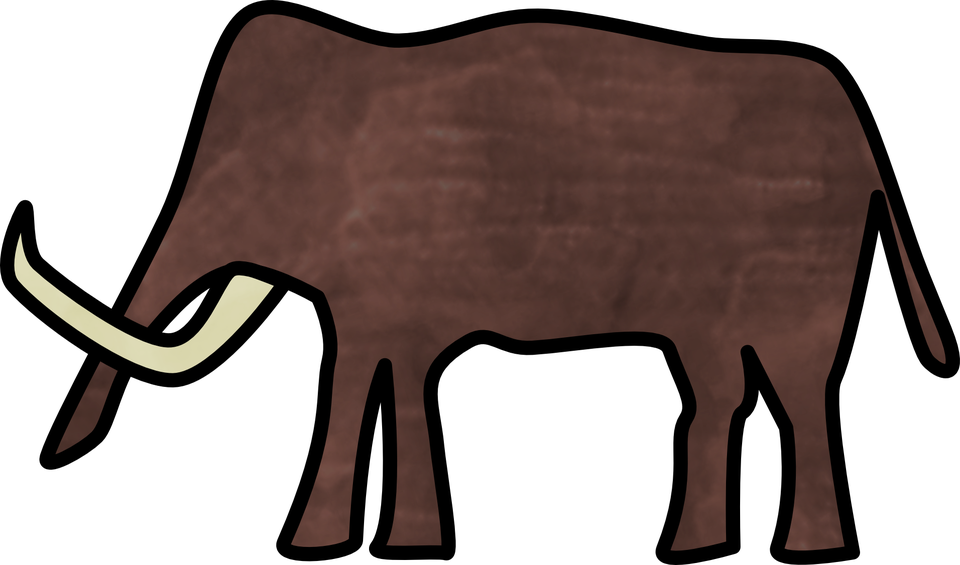
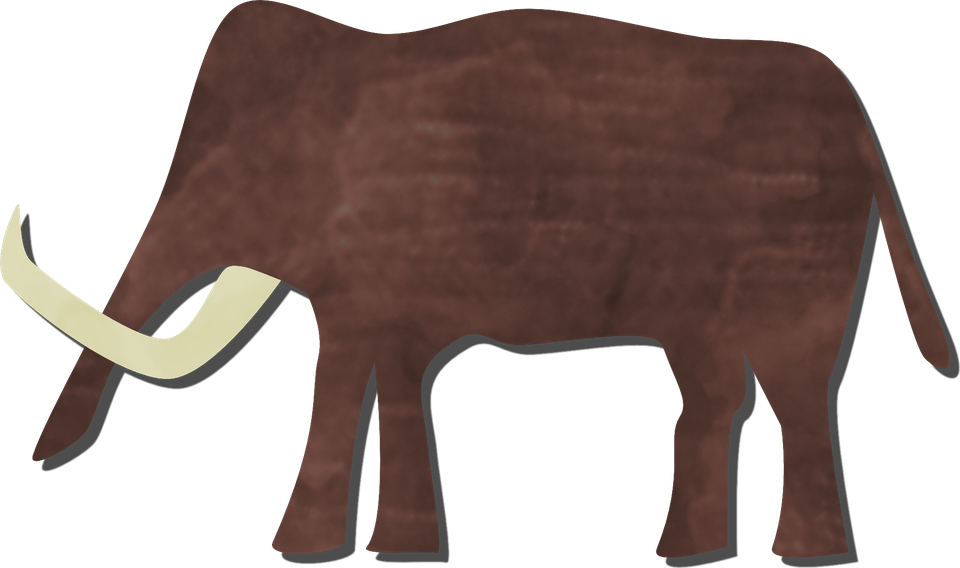
Art: the outline-free mammoth and titles
New exports from logo.afdesign — the animal and both titles without the
ink outline, shadow still in the file. Same sizes as before.

Changed region(s): [[0.0, 0.0, 1.0, 1.0]]

diff --git a/index.html b/index.html
@@ -373,7 +373,7 @@
      would flatten both to one colour. Alone — two units once stood beside it
      for scale, and at 0.27 of its height they were two dark flecks under the
      wordmark that read as noise before they read as people. Height, not width:
-     the file is 1912x1126, so the width follows.
+     the file is 1888x1118, so the width follows.
 
      The wordmark stands in front of its legs: the animal's belly line is at
      about 0.62 of its height (measured off the alpha), so the title is pulled
